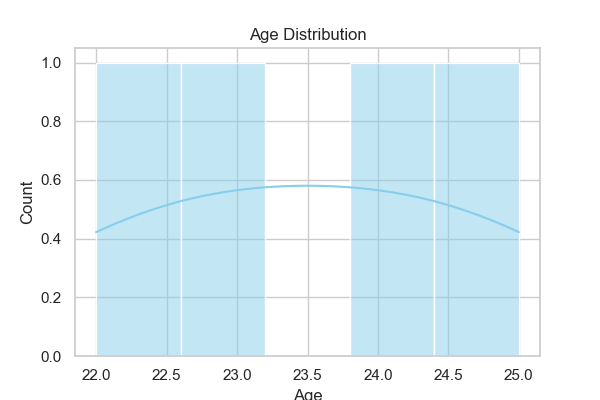
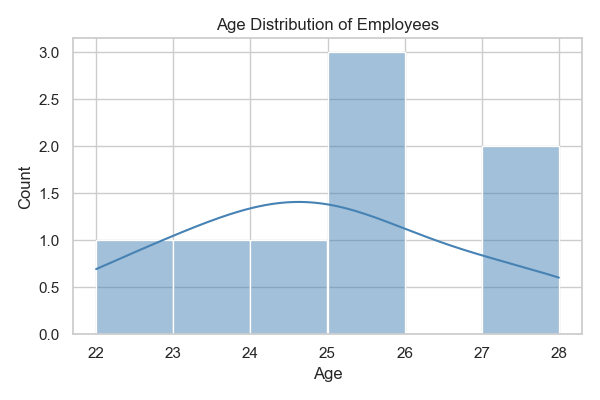
New data set with script and analysis,License added,Added requirements.txt for environment reproducibility

diff --git a/scripts/visualize_data.py b/scripts/visualize_data.py
@@ -5,70 +5,95 @@ import pandas as pd
 import matplotlib.pyplot as plt
 import seaborn as sns
 
-# Set plot style
+# Set a professional visualization style
 sns.set(style="whitegrid")
 
-# Create directory for plots if it doesn't exist
-plots_dir = os.path.join(os.path.dirname(os.path.abspath(__file__)), '../plots')
+# Define base directories
+base_dir = os.path.dirname(os.path.abspath(__file__))
+plots_dir = os.path.join(base_dir, '../plots')
+
+# Create the plots folder if it doesn't exist
 if not os.path.exists(plots_dir):
     os.makedirs(plots_dir)
 
-# Load cleaned CSV
-data_path = os.path.join(os.path.dirname(os.path.abspath(__file__)), '../data/cleaned_data.csv')
+# Load cleaned dataset
+data_path = os.path.join(base_dir, '../data/cleaned_data.csv')
 data = pd.read_csv(data_path)
 
-print("Data Loaded Successfully:\n")
+print("✅ Cleaned Data Loaded Successfully:\n")
 print(data.head())
 
 # Basic Info
-print("\nData Info:")
+print("\n🔹 Data Information:")
 print(data.info())
 
 # Summary Statistics
-print("\nSummary Statistics:")
+print("\n🔹 Summary Statistics:")
 print(data.describe())
 
 # -----------------------------
 # Visualization Section
 # -----------------------------
 
-# 1. Age Distribution
+# 1⃣ Age Distribution
 plt.figure(figsize=(6,4))
-sns.histplot(data['Age'], bins=5, kde=True, color='skyblue')
-plt.title('Age Distribution')
+sns.histplot(data['Age'], bins=6, kde=True, color='steelblue')
+plt.title('Age Distribution of Employees')
 plt.xlabel('Age')
 plt.ylabel('Count')
-age_plot_path = os.path.join(plots_dir, 'age_distribution.png')
-plt.savefig(age_plot_path)
+plt.tight_layout()
+plt.savefig(os.path.join(plots_dir, 'age_distribution.png'))
 plt.show()
 
-# 2. Score Distribution
+# 2⃣ Salary Distribution
 plt.figure(figsize=(6,4))
-sns.histplot(data['Score'], bins=5, kde=True, color='orange')
-plt.title('Score Distribution')
-plt.xlabel('Score')
+sns.histplot(data['Salary'], bins=6, kde=True, color='darkorange')
+plt.title('Salary Distribution')
+plt.xlabel('Salary (ETB)')
 plt.ylabel('Count')
-score_plot_path = os.path.join(plots_dir, 'score_distribution.png')
-plt.savefig(score_plot_path)
+plt.tight_layout()
+plt.savefig(os.path.join(plots_dir, 'salary_distribution.png'))
 plt.show()
 
-# 3. Scores by Name (Bar Chart)
+# 3⃣ Average Salary by City
+plt.figure(figsize=(7,4))
+sns.barplot(x='City', y='Salary', data=data, estimator='mean', palette='viridis')
+plt.title('Average Salary by City')
+plt.xlabel('City')
+plt.ylabel('Average Salary (ETB)')
+plt.xticks(rotation=25)
+plt.tight_layout()
+plt.savefig(os.path.join(plots_dir, 'avg_salary_by_city.png'))
+plt.show()
+
+# 4⃣ Gender vs Salary Comparison
 plt.figure(figsize=(6,4))
-sns.barplot(x='Name', y='Score', data=data, palette='viridis', hue=None, dodge=False)
-plt.title('Scores by Name')
-plt.xlabel('Name')
-plt.ylabel('Score')
-bar_plot_path = os.path.join(plots_dir, 'scores_by_name.png')
-plt.savefig(bar_plot_path)
+sns.boxplot(x='Gender', y='Salary', data=data, palette='Set2')
+plt.title('Salary Distribution by Gender')
+plt.xlabel('Gender')
+plt.ylabel('Salary (ETB)')
+plt.tight_layout()
+plt.savefig(os.path.join(plots_dir, 'salary_by_gender.png'))
 plt.show()
 
-# 4. Correlation Heatmap (Numeric columns only)
+# 5⃣ Correlation Heatmap (numeric columns only)
 numeric_data = data.select_dtypes(include='number')
 plt.figure(figsize=(4,3))
-sns.heatmap(numeric_data.corr(), annot=True, cmap='coolwarm')
+sns.heatmap(numeric_data.corr(), annot=True, cmap='coolwarm', fmt=".2f")
 plt.title('Correlation Matrix')
-corr_plot_path = os.path.join(plots_dir, 'correlation_matrix.png')
-plt.savefig(corr_plot_path)
+plt.tight_layout()
+plt.savefig(os.path.join(plots_dir, 'correlation_matrix.png'))
 plt.show()
 
-print("\nAll plots saved to:", plots_dir)
+# 6⃣ Salary by Age (Scatter Plot)
+plt.figure(figsize=(6,4))
+sns.scatterplot(x='Age', y='Salary', hue='Gender', data=data, palette='cool', s=100)
+plt.title('Relationship Between Age and Salary')
+plt.xlabel('Age')
+plt.ylabel('Salary (ETB)')
+plt.legend(title='Gender')
+plt.tight_layout()
+plt.savefig(os.path.join(plots_dir, 'age_vs_salary.png'))
+plt.show()
+
+print(f"\n✅ All plots saved successfully in: {plots_dir}")

diff --git a/scripts/clean_data.py b/scripts/clean_data.py
@@ -1,22 +1,72 @@
 import os
 import pandas as pd
 
-# Base directory = directory of this script
+# ===============================================================
+# STEP 1: SET UP PATHS
+# ===============================================================
+# Define the base directory (where this script is located)
 base_dir = os.path.dirname(os.path.abspath(__file__))
 
-# Paths for reading and writing
+# Define input and output paths relative to the project structure
 input_path = os.path.join(base_dir, '../data/sample_data.csv')
 output_path = os.path.join(base_dir, '../data/cleaned_data.csv')
 
-# Read CSV
-data = pd.read_csv(input_path)
-print("Original Data:")
-print(data)
+# ===============================================================
+# STEP 2: READ RAW DATA
+# ===============================================================
+try:
+    data = pd.read_csv(input_path)
+    print("✅ Raw data loaded successfully!\n")
+except FileNotFoundError:
+    print("❌ Error: The file sample_data.csv was not found.")
+    exit()
 
-# Process data here (if needed)
+print("📊 Original (Raw) Data Preview:")
+print(data.head(), "\n")  # Show first 5 rows
 
-# Save CSV
+# ===============================================================
+# STEP 3: DATA CLEANING PROCESS (Enhanced)
+# ===============================================================
+
+# 1⃣ Remove duplicate records (case-insensitive for 'Name')
+data['Name_lower'] = data['Name'].str.lower()
+data = data.drop_duplicates(subset=['Name_lower'], keep='first')
+data.drop(columns=['Name_lower'], inplace=True)
+
+# 2⃣ Handle missing values
+for col in data.columns:
+    if data[col].dtype in ['int64', 'float64']:
+        data[col].fillna(data[col].mean(), inplace=True)
+    else:
+        data[col].fillna('Unknown', inplace=True)
+
+# 3⃣ Standardize text formatting
+if 'Gender' in data.columns:
+    data['Gender'] = data['Gender'].str.title().replace({
+        'M': 'Male',
+        'F': 'Female'
+    })
+
+if 'City' in data.columns:
+    # Convert all city names to proper title case
+    data['City'] = data['City'].str.title()
+
+# 4⃣ Remove invalid or unrealistic numeric entries
+if 'Salary' in data.columns:
+    data = data[data['Salary'] > 0]
+
+# ===============================================================
+# STEP 4: SAVE CLEANED DATA
+# ===============================================================
 data.to_csv(output_path, index=False)
-print("\nCleaned data saved successfully!")
-print("Cleaned Data:")
-print(data)
+
+print("✅ Cleaned data saved successfully!")
+print(f"📁 File location: {output_path}\n")
+
+# ===============================================================
+# STEP 5: FINAL VERIFICATION
+# ===============================================================
+print("📈 Cleaned Data Preview:")
+print(data.head())
+
+print("\n🎯 Data cleaning process completed successfully!")
